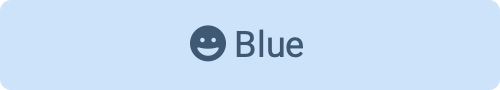
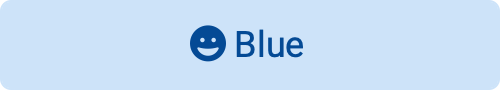
Status updated

Changed region(s): [[0.36, 0.2667, 0.63, 0.6889]]

diff --git a/sites/manual_dev/docs/ux/status.md b/sites/manual_dev/docs/ux/status.md
@@ -9,7 +9,34 @@
 ### Mega
 
 ## Characteristics
-### Green
+
+### Neutral
+
+Range of application
+
+1. Waiting state
+2. Draft
+3. Security / Confidentiality
+4. Neutral
+5. Stable states
+
+Ampel logic: No action needed
+
+| Type    | Font      | Background | Border    | Label                                                            |
+| ------- | --------- | ---------- | --------- | ---------------------------------------------------------------- |
+| Full    | #FFFFFF | #044A95  | #003E80 | ![Regular blue](assets/blue-regular.png){ class="thumbnail-sm" } |
+| Light   | #044A95 | #FFFFFF  | #003E80 | ![Light blue](assets/blue-light.png){ class="thumbnail-sm" }     |
+| Mega    | #044A95 | #cde3f9  | #3F5873 | ![Mega blue](assets/blue-mega.png){ class="thumbnail" }          |
+
+| Component  | Context               | icon                       | State       | Range of application |
+| ---------- | --------------------- | -------------------------- | ----------- | -------------------- |
+| Course     |                       | :fontawesome-solid-pencil: | Preparation | 2.                   |
+| Course     | Assessment mode       | :fontawesome-solid-clock:  | Scheduled   | 1.                   |
+| Course     | Assessment inspection | :fontawesome-solid-clock:  | Scheduled   | 1.                   |
+| Catalog    | Offer period          | :fontawesome-solid-clock:  | Planned     | 1.                   |
+| Curriculum | Curriculum element	 | :fontawesome-solid-pencil: |	Preparation | 2.                   |
+
+### Success
 
 Range of application
 
@@ -38,7 +65,7 @@ Ampel logic: No dangers or safety concerns
 | Curriculum | Curriculum element    | :fontawesome-solid-check:          | Confirmed   | 4.                   |
 | Curriculum | Curriculum element    | :fontawesome-solid-check:          | Active      | 1.                   |
 
-### Yellow
+### Warning
 
 Range of application
 
@@ -63,33 +90,7 @@ Ampel logic: Attention required
 | Catalog    |                       | :fontawesome-solid-triangle-exclamation: | Fully booked     | 2.                   |
 | Curriculum | Curriculum element    | :fontawesome-solid-hourglass-half:       | Provisional      | 4.                   |
 
-### Blue
-
-Range of application
-
-1. Waiting state
-2. Draft
-3. Security / Confidentiality
-4. Neutral
-5. Stable states
-
-Ampel logic: No action needed
-
-| Type    | Font      | Background | Border    | Label                                                            |
-| ------- | --------- | ---------- | --------- | ---------------------------------------------------------------- |
-| Full    | #FFFFFF | #3F5873  | #384E66 | ![Regular blue](assets/blue-regular.png){ class="thumbnail-sm" } |
-| Light   | #3F5873 | #FFFFFF  | #384E66 | ![Light blue](assets/blue-light.png){ class="thumbnail-sm" }     |
-| Mega    | #3F5873 | #cde3f9  | #3F5873 | ![Mega blue](assets/blue-mega.png){ class="thumbnail" }          |
-
-| Component  | Context               | icon                       | State       | Range of application |
-| ---------- | --------------------- | -------------------------- | ----------- | -------------------- |
-| Course     |                       | :fontawesome-solid-pencil: | Preparation | 2.                   |
-| Course     | Assessment mode       | :fontawesome-solid-clock:  | Scheduled   | 1.                   |
-| Course     | Assessment inspection | :fontawesome-solid-clock:  | Scheduled   | 1.                   |
-| Catalog    | Offer period          | :fontawesome-solid-clock:  | Planned     | 1.                   |
-| Curriculum | Curriculum element	 | :fontawesome-solid-pencil: |	Preparation | 2.                   |
-
-### Orange
+### Critical
 
 Range of application
 
@@ -109,11 +110,13 @@ Ampel logic: Increased warning, intervention urgently required, but not yet crit
 | ------- | --------------------- | --------------------------- | ----------- | -------------------- |
 | Course  | Assessment inspection | :fontawesome-solid-spinner: | In progress | -                    |
 
-### Red
+### Danger
 
 Range of application
 1. Flagged as deleted
 2. Wrong
+
+Ampel logic: Danger and critical, intervention required
 
 | Type    | Font      | Background | Border    | Label                                                          |
 | ------- | --------- | ---------- | --------- | -------------------------------------------------------------- |
@@ -121,9 +124,7 @@ Range of application
 | Light   | #b30018 | #FFFFFF  | #a80016 | ![Light red](assets/red-light.png){ class="thumbnail-sm" }     |
 | Mega    | #b30018 | #ffc9bd  | #fff8f6 | ![Mega red](assets/red-mega.png){ class="thumbnail" }          |
 
-Ampel logic: Danger and critical, intervention required
-
-### Brown
+### Finised
 
 Range of application
 
@@ -143,7 +144,7 @@ Range of application
 | Course     | Assessment inspection | :fontawesome-solid-circle-xmark: | Cancelled | -                    |
 | Curriculum | Curriculum element    | :fontawesome-solid-ban:          | Finished  | 1./2.                |
 
-### Grey
+### Inactiv
 
 Range of application
 
